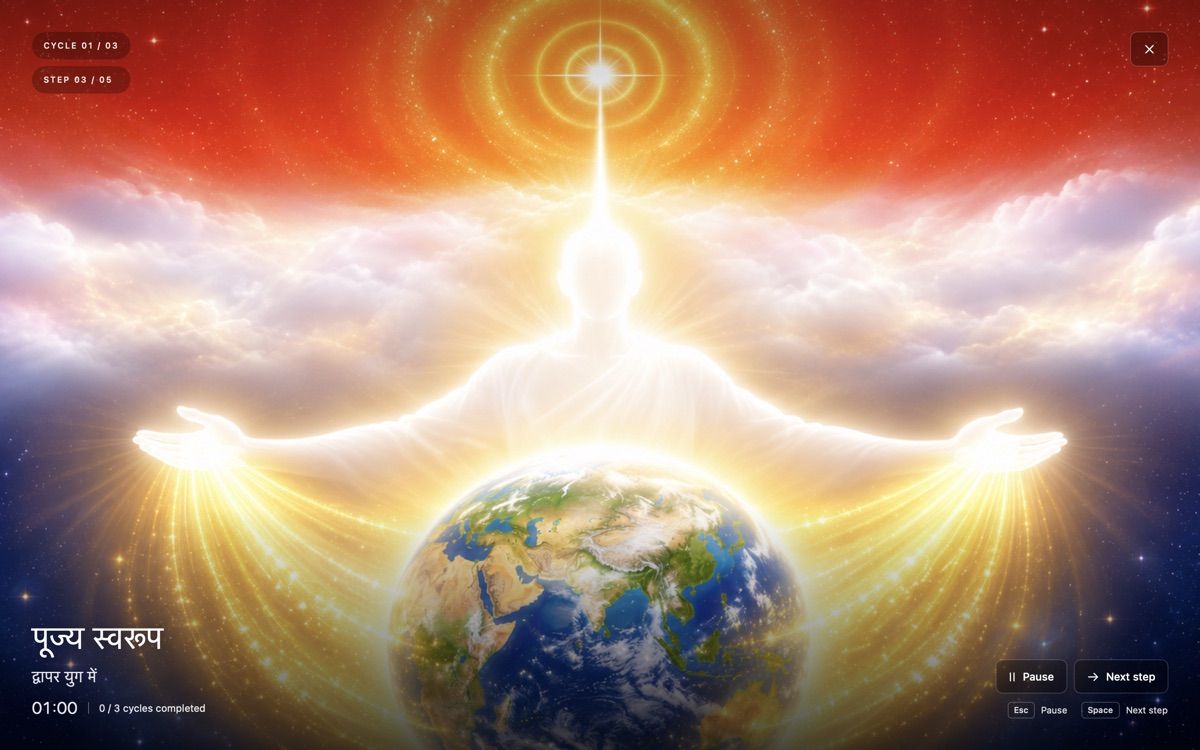
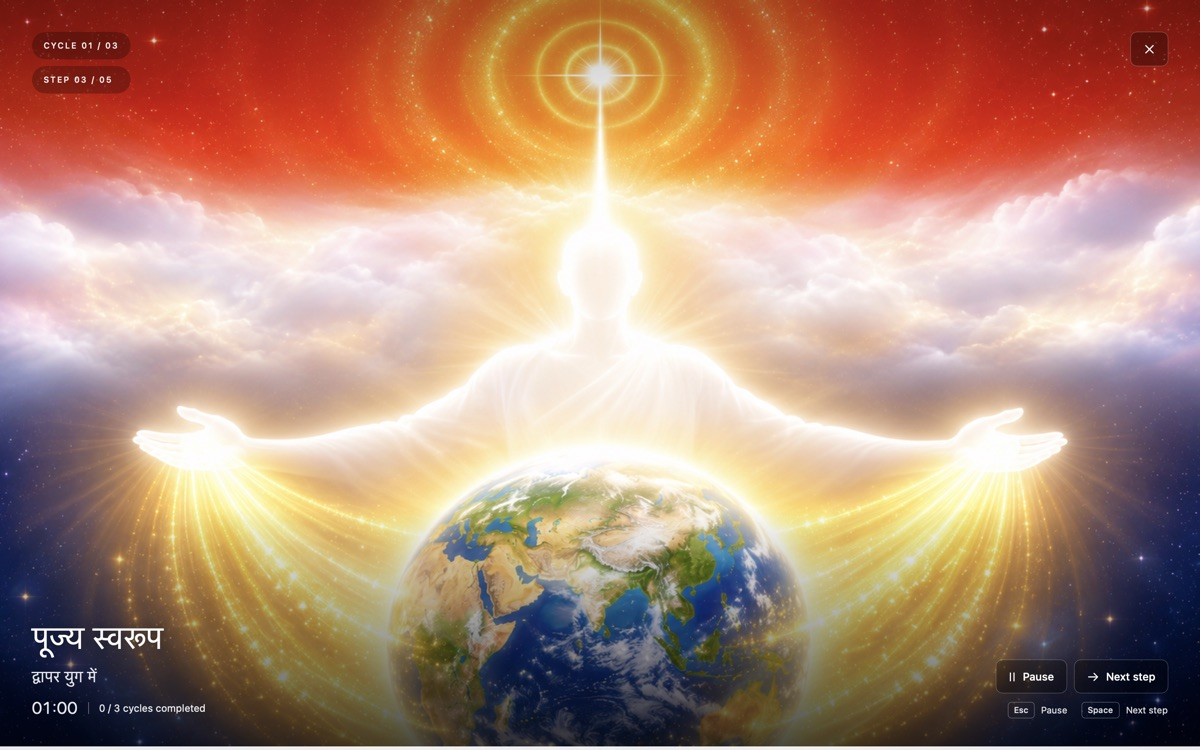
Show a countdown bar along the bottom of each step
A thin white bar along the bottom edge shows how much of the step's
time is left. It is full as a step begins, empties as the time runs
out, holds still while paused, and starts full again on each new step.
In the Mac app Core Animation runs it, so the app does no work per
frame; on the web the browser's animation engine does.

The live timer check now runs the step screens in an offscreen window
and confirms the bar empties at the timer's rate and holds still while
paused. Both engines gain a progress check, and the README's step
screenshots show the bar.

Changed region(s): [[0.0, 0.9813, 1.0, 1.0]]

diff --git a/Sources/SwadarshanChakra/FullScreenStageView.swift b/Sources/SwadarshanChakra/FullScreenStageView.swift
@@ -57,6 +57,10 @@ struct FullScreenStageView: View {
                 .padding(.horizontal, padding)
                 .padding(.top, max(padding, topInset + 12))
                 .padding(.bottom, padding)
+
+                // How much of this step's time is left, along the bottom edge.
+                StepMeter(engine: engine, moving: model.windowVisible)
+                    .frame(maxWidth: .infinity, maxHeight: .infinity, alignment: .bottom)
             }
             .frame(width: size.width, height: size.height)
             .clipped()
@@ -173,6 +177,116 @@ struct CycleCounter: View {
         }
         .accessibilityLabel("Cycle \(engine.currentCycle) of \(engine.configuration.cycles)")
         .accessibilityIdentifier("cycle-counter")
+    }
+}
+
+/// A thin white bar along the bottom edge: the time left in this step, out of its full time. It is
+/// full as a step begins, empties as the countdown runs, and holds still while paused.
+struct StepMeter: View {
+    let engine: SessionEngine
+    /// Whether the window can be seen. The bar glides only then; otherwise it is drawn still.
+    let moving: Bool
+
+    var body: some View {
+        StepMeterBar(fraction: 1 - engine.progress, remaining: engine.remainingSeconds,
+                     step: engine.transitionCount, gliding: moving && engine.phase == .running)
+            .frame(height: 4)
+            .allowsHitTesting(false)
+            // The countdown beside the title already says how long is left.
+            .accessibilityHidden(true)
+    }
+}
+
+private struct StepMeterBar: NSViewRepresentable {
+    let fraction: Double
+    let remaining: TimeInterval
+    let step: Int
+    let gliding: Bool
+
+    func makeNSView(context: Context) -> StepMeterView { StepMeterView() }
+    func updateNSView(_ view: StepMeterView, context: Context) {
+        view.show(fraction: fraction, remaining: remaining, step: step, gliding: gliding)
+    }
+}
+
+/// Core Animation runs the countdown in the window server, as it turns the header chakra: the bar
+/// glides between the timer's ticks while the app does no work per frame.
+final class StepMeterView: NSView {
+    private static let trackColor = NSColor(white: 1, alpha: 0.2)
+    private static let fillColor = NSColor(white: 1, alpha: 0.9)
+    private let trackLayer = CALayer()
+    private let fillLayer = CALayer()
+    private var fraction = 1.0
+    private var step: Int?
+    private var gliding = false
+
+    init() {
+        super.init(frame: .zero)
+        wantsLayer = true
+        trackLayer.backgroundColor = Self.trackColor.cgColor
+        fillLayer.backgroundColor = Self.fillColor.cgColor
+        fillLayer.anchorPoint = CGPoint(x: 0, y: 0.5)   // It shortens toward the left edge.
+        for sublayer in [trackLayer, fillLayer] {
+            sublayer.isHidden = true
+            layer?.addSublayer(sublayer)
+        }
+    }
+
+    required init?(coder: NSCoder) { nil }
+
+    /// What the bar shows at this moment, as a share of the step's time, for the live timer check.
+    var shownFraction: Double {
+        guard gliding else { return fraction }
+        return (fillLayer.presentation() ?? fillLayer).value(forKeyPath: "transform.scale.x") as? Double ?? 0
+    }
+
+    // Decorative: clicks reach whatever is behind it.
+    override func hitTest(_ point: NSPoint) -> NSView? { nil }
+
+    override func layout() {
+        super.layout()
+        CATransaction.begin()
+        CATransaction.setDisableActions(true)
+        trackLayer.frame = bounds
+        fillLayer.bounds = CGRect(origin: .zero, size: bounds.size)
+        fillLayer.position = CGPoint(x: bounds.minX, y: bounds.midY)
+        CATransaction.commit()
+    }
+
+    func show(fraction: Double, remaining: TimeInterval, step: Int, gliding: Bool) {
+        // A new step, or this one resumed, glides again from where it stands; ticks in between change nothing.
+        let restart = gliding && (!self.gliding || step != self.step)
+        let redraw = gliding != self.gliding || (!gliding && fraction != self.fraction)
+        self.fraction = fraction
+        self.step = step
+        self.gliding = gliding
+        guard restart || redraw else { return }
+        CATransaction.begin()
+        CATransaction.setDisableActions(true)
+        trackLayer.isHidden = !gliding
+        fillLayer.isHidden = !gliding
+        if restart {
+            fillLayer.transform = CATransform3DMakeScale(0, 1, 1)   // Where the glide ends.
+            let countdown = CABasicAnimation(keyPath: "transform.scale.x")
+            countdown.fromValue = fraction
+            countdown.toValue = 0
+            countdown.duration = max(remaining, 0.01)
+            fillLayer.add(countdown, forKey: "countdown")
+        } else if !gliding {
+            fillLayer.removeAnimation(forKey: "countdown")
+        }
+        CATransaction.commit()
+        if redraw { needsDisplay = true }
+    }
+
+    // Still, the bar is drawn like any view, so offscreen renders (the README screenshots) include it.
+    override func draw(_ dirtyRect: NSRect) {
+        guard !gliding else { return }
+        Self.trackColor.setFill()
+        bounds.fill(using: .sourceOver)
+        Self.fillColor.setFill()
+        NSRect(x: bounds.minX, y: bounds.minY, width: bounds.width * fraction, height: bounds.height)
+            .fill(using: .sourceOver)
     }
 }
 

diff --git a/Sources/SwadarshanChakra/AppMain.swift b/Sources/SwadarshanChakra/AppMain.swift
@@ -412,8 +412,16 @@ final class AppDelegate: NSObject, NSApplicationDelegate, NSWindowDelegate {
     private func verifyLiveTimer() async throws {
         let suiteName = "com.swadarshan.chakra.timer-check"
         let probe = SessionModel(defaults: UserDefaults(suiteName: suiteName)!)
+        // The probe's screens, in a window of their own off screen, so the step bar runs live as well.
+        let screens = NSWindow(contentRect: NSRect(x: -10000, y: -10000, width: 1024, height: 640),
+                               styleMask: .borderless, backing: .buffered, defer: false)
+        screens.isReleasedWhenClosed = false
+        screens.contentView = NSHostingView(rootView: MeditationView(model: probe, artwork: artwork))
+        screens.orderFront(nil)
+        probe.windowVisible = true
         defer {
             probe.pause()
+            screens.close()
             UserDefaults.standard.removePersistentDomain(forName: suiteName)
         }
         func failure(_ code: Int, _ message: String) -> NSError {
@@ -452,6 +460,31 @@ final class AppDelegate: NSObject, NSApplicationDelegate, NSWindowDelegate {
             throw failure(4, "Automatic advance did not start a fresh full countdown")
         }
         print("PASS Automatic advance starts a fresh full countdown")
+
+        func stepMeter(in view: NSView) -> StepMeterView? {
+            if let found = view as? StepMeterView { return found }
+            for subview in view.subviews { if let found = stepMeter(in: subview) { return found } }
+            return nil
+        }
+        guard let host = screens.contentView, let meter = stepMeter(in: host) else {
+            throw failure(5, "The step screen has no bar along its bottom edge")
+        }
+        let firstTime = SessionModel.now, first = meter.shownFraction
+        try await Task.sleep(nanoseconds: 1_000_000_000)
+        let laterTime = SessionModel.now, later = meter.shownFraction
+        // Per second, the bar should lose one step's worth of its length divided by the step's seconds.
+        let rate = (first - later) / (laterTime - firstTime) * probe.engine.configuration.secondsPerStage
+        guard first > 0.95, abs(rate - 1) < 0.05, abs(later - (1 - probe.engine.progress)) < 0.03 else {
+            throw failure(5, "The step bar did not empty with the live timer (from \(first) to \(later), rate \(rate))")
+        }
+        probe.pause()
+        try await Task.sleep(nanoseconds: 300_000_000)
+        let held = meter.shownFraction
+        try await Task.sleep(nanoseconds: 500_000_000)
+        guard held == meter.shownFraction, abs(held - (1 - probe.engine.progress)) < 0.001 else {
+            throw failure(6, "The step bar did not hold still while paused")
+        }
+        print("PASS The step bar empties with the live timer and holds still while paused")
     }
 
     private func runSmokeTest() {

diff --git a/web/app.js b/web/app.js
@@ -246,6 +246,7 @@ const cyclesCompleted = byId("cycles-completed");
 const runningControls = byId("running-controls");
 const pausedControls = byId("paused-controls");
 const pauseReason = byId("pause-reason");
+const stepMeterFill = byId("step-meter-fill");
 
 const confirmation = byId("confirmation");
 const confirmTitle = byId("confirm-title");
@@ -569,6 +570,31 @@ function renderStage() {
   runningControls.hidden = !running;
   pausedControls.hidden = running;
   setText(pauseReason, model.pauseReason);
+  renderStepMeter();
+}
+
+let meterStep = null;
+let meterGlide = null;
+
+/// StepMeter: the bar along the bottom empties as the step's time runs out and holds still while
+/// paused. The browser runs the glide between ticks, on the compositor, with no work per frame.
+function renderStepMeter() {
+  const fraction = 1 - engine.progress;
+  // A step coming into view, or the next step, starts the bar afresh, like a new StepMeterView.
+  const fresh = shownView !== "stage" || meterStep !== engine.transitionCount;
+  meterStep = engine.transitionCount;
+  if (engine.phase !== "running") {
+    meterGlide?.cancel();
+    meterGlide = null;
+    stepMeterFill.style.transform = `scaleX(${fraction})`;
+  } else if (fresh || !meterGlide) {
+    meterGlide?.cancel();
+    stepMeterFill.style.transform = "scaleX(0)";
+    meterGlide = stepMeterFill.animate(
+      [{ transform: `scaleX(${fraction})` }, { transform: "scaleX(0)" }],
+      { duration: Math.max(engine.remainingSeconds, 0.01) * 1000, easing: "linear" },
+    );
+  }
 }
 
 function renderConfirmation() {

diff --git a/web/app.css b/web/app.css
@@ -872,6 +872,23 @@ button { cursor: pointer; }
 .stage-shade-top { top: 0; height: min(22%, 170px); background: linear-gradient(rgba(0, 0, 0, 0.28), transparent); }
 .stage-shade-bottom { bottom: 0; height: min(40%, 290px); background: linear-gradient(transparent, rgba(0, 0, 0, 0.72)); }
 
+/* StepMeter: the time left in this step, out of its full time, along the bottom edge. */
+.step-meter {
+  position: absolute;
+  right: 0;
+  bottom: 0;
+  left: 0;
+  height: 4px;
+  background: rgba(255, 255, 255, 0.2);
+  pointer-events: none;
+}
+
+.step-meter-fill {
+  height: 100%;
+  background: rgba(255, 255, 255, 0.9);
+  transform-origin: left center;
+}
+
 .stage-overlay {
   position: absolute;
   inset: 0;

diff --git a/Tests/MeditationCoreTests/SessionEngineTests.swift b/Tests/MeditationCoreTests/SessionEngineTests.swift
@@ -78,6 +78,19 @@ final class SessionEngineTests {
         Check.equal(engine.remainingSeconds, 60)
     }
 
+    func testProgressIsTheShareOfTheStepPracticed() {
+        var engine = stageEngine()
+        engine.begin(configuration(), at: 0)
+        Check.equal(engine.progress, 0)
+        engine.tick(at: 15)
+        Check.equal(engine.progress, 0.25)
+        engine.pause(at: 30)
+        Check.equal(engine.progress, 0.5)
+        engine.resume(at: 100)
+        engine.nextStage(at: 100)
+        Check.equal(engine.progress, 0)
+    }
+
     func testStageFiveCountsCycleAndFinalManualAdvanceCompletes() {
         var engine = stageEngine()
         engine.begin(configuration(3), at: 0)

diff --git a/Tests/MeditationCoreTests/CheckRunner.swift b/Tests/MeditationCoreTests/CheckRunner.swift
@@ -53,6 +53,7 @@ enum CoreCheckRunner {
             ("Input validation", suite.testValidationRejectsOutOfRangeAndNonWholeInputs),
             ("Automatic cycles and completion", suite.testAllAutomaticSessionsFinishAtPlannedActiveTime),
             ("Space discards only current time", suite.testSpaceDiscardsOnlyCurrentStageRemainder),
+            ("Step progress", suite.testProgressIsTheShareOfTheStepPracticed),
             ("Stage 5 and manual completion", suite.testStageFiveCountsCycleAndFinalManualAdvanceCompletes),
             ("Key repeat", suite.testKeyRepeatNeverAdvances),
             ("Timer then Space at boundary", suite.testAutomaticThenSpaceAtSameBoundaryIsOneTransition),

diff --git a/web/engine.js b/web/engine.js
@@ -173,6 +173,10 @@ export class SessionEngine {
   get currentStage() { return STAGES[this.stageIndex]; }
   get currentCycle() { return Math.min(this.completedCycles + 1, this.configuration.cycles); }
   get isIntroducingCycle() { return this.phase === "running" && this.introductionRemaining > 0; }
+  /// The share of this step's time already practiced, from 0 to 1.
+  get progress() {
+    return Math.min(1, Math.max(0, 1 - this.remainingSeconds / this.configuration.secondsPerStage));
+  }
 
   begin(configuration, now) {
     this.reset();

diff --git a/web/index.html b/web/index.html
@@ -231,6 +231,7 @@
           </div>
         </div>
       </div>
+      <div class="step-meter" aria-hidden="true"><div id="step-meter-fill" class="step-meter-fill"></div></div>
     </section>
 
     <!-- Restart or end (ConfirmationOverlay) -->

diff --git a/VERIFICATION.md b/VERIFICATION.md
@@ -4,21 +4,22 @@ Validated on this Mac with macOS 27.2, Apple Silicon, and Swift 6.3.3. The app's
 
 | Check | Result |
 | --- | --- |
-| Deterministic session engine and settings | 37 checks, 537 assertions, zero failures |
+| Deterministic session engine and settings | 38 checks, 541 assertions, zero failures |
 | Packaged release native integration | 43 checks passed on version 1.1.1; updated for cycle cards and total time in 1.2.0, not yet re-run |
 | Total time | Shared equally by every step; the planned total stays exact for uneven splits (10 minutes for 7 cycles); minimum of 1 second per step, 600-minute maximum, mode switching that keeps the practice, and saved-setting fallback covered |
 | Cycle cards | Every cycle opens with a card that uses no practice time; Space begins the first step early, pausing begins the cycle with a full first step, a key press at the card's end is coalesced, and the last cycle ends in completion |
 | Native full screen | Window style and system state both confirm native full-screen mode; `NSMenu.menuBarVisible()` confirms the menu bar is hidden; Dock auto-hide is enabled (1.1.1 run). Leaving full screen into an ordinary window and the "Open in full screen" setting are covered by the updated smoke test, not yet run |
 | Window lifecycle | Close exits full screen and restores menu-bar-only operation; reopening preserves the exact paused timer; reopening during an exit transition also passes |
 | Focus and absence | Actual key-window transfer pauses practice; local sleep notification and the lock handler pass |
-| Packaged release live timer | All four 1.2.0 checks passed: practice opens with the Cycle 1 card, the card lasts three seconds before a full first step, 12 seconds per step advances exactly once, and the next step receives a fresh full countdown |
+| Packaged release live timer | All five checks passed: practice opens with the Cycle 1 card, the card lasts three seconds before a full first step, 12 seconds per step advances exactly once, the next step receives a fresh full countdown, and the step bar (in an offscreen window) empties at the timer's rate and holds still while paused |
+| Step bar | A 4-point white bar along the bottom edge of every step shows the share of the step's time left. In the layout captures it ends at 78.3% of the width at 0:47 of 1:00 (running, paused, compact) and at 75% at 0:45 (paused second cycle). Core Animation runs the countdown, so the app does no work per frame; the live timer check measured the glide within 5% of the step's length |
 | Release packaging | The workflow's zip and SHA-256 steps run locally; the checksum verifies and the unzipped app's signature passes `codesign --verify --deep --strict` |
 | Input validation | Invalid cycles, zero-length steps, blank values, negatives, decimals, and out-of-range components rejected |
 | Per-step timing | Minutes and seconds are assigned in full to every step; cycle and session totals are calculated automatically |
 | Saved settings | Exact legacy conversion (including 7 minutes per cycle → 1:24 per step), new-setting precedence, persistence, and invalid-value fallback covered |
 | Space and cycle boundaries | Single-stage advance, held-key rejection, stale event rejection, both timer/key race orderings, and final Stage 5 completion covered |
 | Pause and confirmation | Exact remaining time preserved; paused Space ignored; restart/end/quit and cancellation covered |
-| Web version | `web/engine.js` passes 20 Node checks that mirror the core checks. A full practice was driven in headless Chromium through the DevTools protocol at 1440×900, 1024×640, and 390×844. It covered setup, total-time summaries and validation, cycle cards, Space, Esc, Return, restart and end confirmation, and completion, with no console errors or Content Security Policy violations. Safari, Firefox, and real full-screen mode in a browser have not been tried |
+| Web version | `web/engine.js` passes 21 Node checks that mirror the core checks. A full practice was driven in headless Chromium through the DevTools protocol at 1440×900, 1024×640, and 390×844. It covered setup, total-time summaries and validation, cycle cards, Space, Esc, Return, restart and end confirmation, and completion, with no console errors or Content Security Policy violations. The step bar was sampled with 8-second steps under the site's real headers: it empties at the timer's rate (within 1%), holds still on Esc, continues from the same place on Return, and starts full after Space and after a step runs out, at 1440×900 and 390×844. Safari, Firefox, and real full-screen mode in a browser have not been tried |
 | Website deployment | Deployed to Firebase Hosting with the `github-deploy` service account key that the website workflow uses. Neither GitHub workflow has run on GitHub yet |
 | Original artwork | All five embedded images match the supplied files byte for byte |
 | Supplied branding | Bundled `Branding/icon.png` matches the owner's original exactly; the header, dialogs, menu bar, and application icon use that supplied image |

diff --git a/README.md b/README.md
@@ -95,6 +95,7 @@ The panel shows what your choice works out to. Press **Begin meditation** (or <k
 Each step fills your screen, as in [the five steps](#the-five-steps) above.
 
 - The current **cycle** and **step** are in the top-left corner. The form's name and the time remaining are at the bottom.
+- A thin white bar along the bottom edge shows how much of the step's time is left. It is full as the step begins, empties as the time runs out, and holds still while paused.
 - When a step's time is up, the next one begins by itself. Ready sooner? Press <kbd>Space</kbd>.
 - <kbd>Esc</kbd> pauses. From there you can resume, restart, or end the practice.
 - If you switch to another app, close the window, or your Mac goes to sleep, the practice pauses and waits for you. Nothing moves on while you're away.
@@ -162,7 +163,7 @@ The app also has built-in checks:
 ```sh
 APP="dist/Swadarshan Chakra.app/Contents/MacOS/SwadarshanChakra"
 "$APP" --verify-resources            # the packaged app decodes all five pictures
-"$APP" --verify-timer                # live 3-second cycle card and 12-second step; about 16 s, no window
+"$APP" --verify-timer                # live 3-second cycle card, 12-second step, and step bar; about 17 s, off screen
 "$APP" --smoke-test                  # drives the real full-screen window; about 45 s, takes over the screen
 "$APP" --render-previews <folder>    # renders every screen to PNG, as used for the screenshots here
 ```
